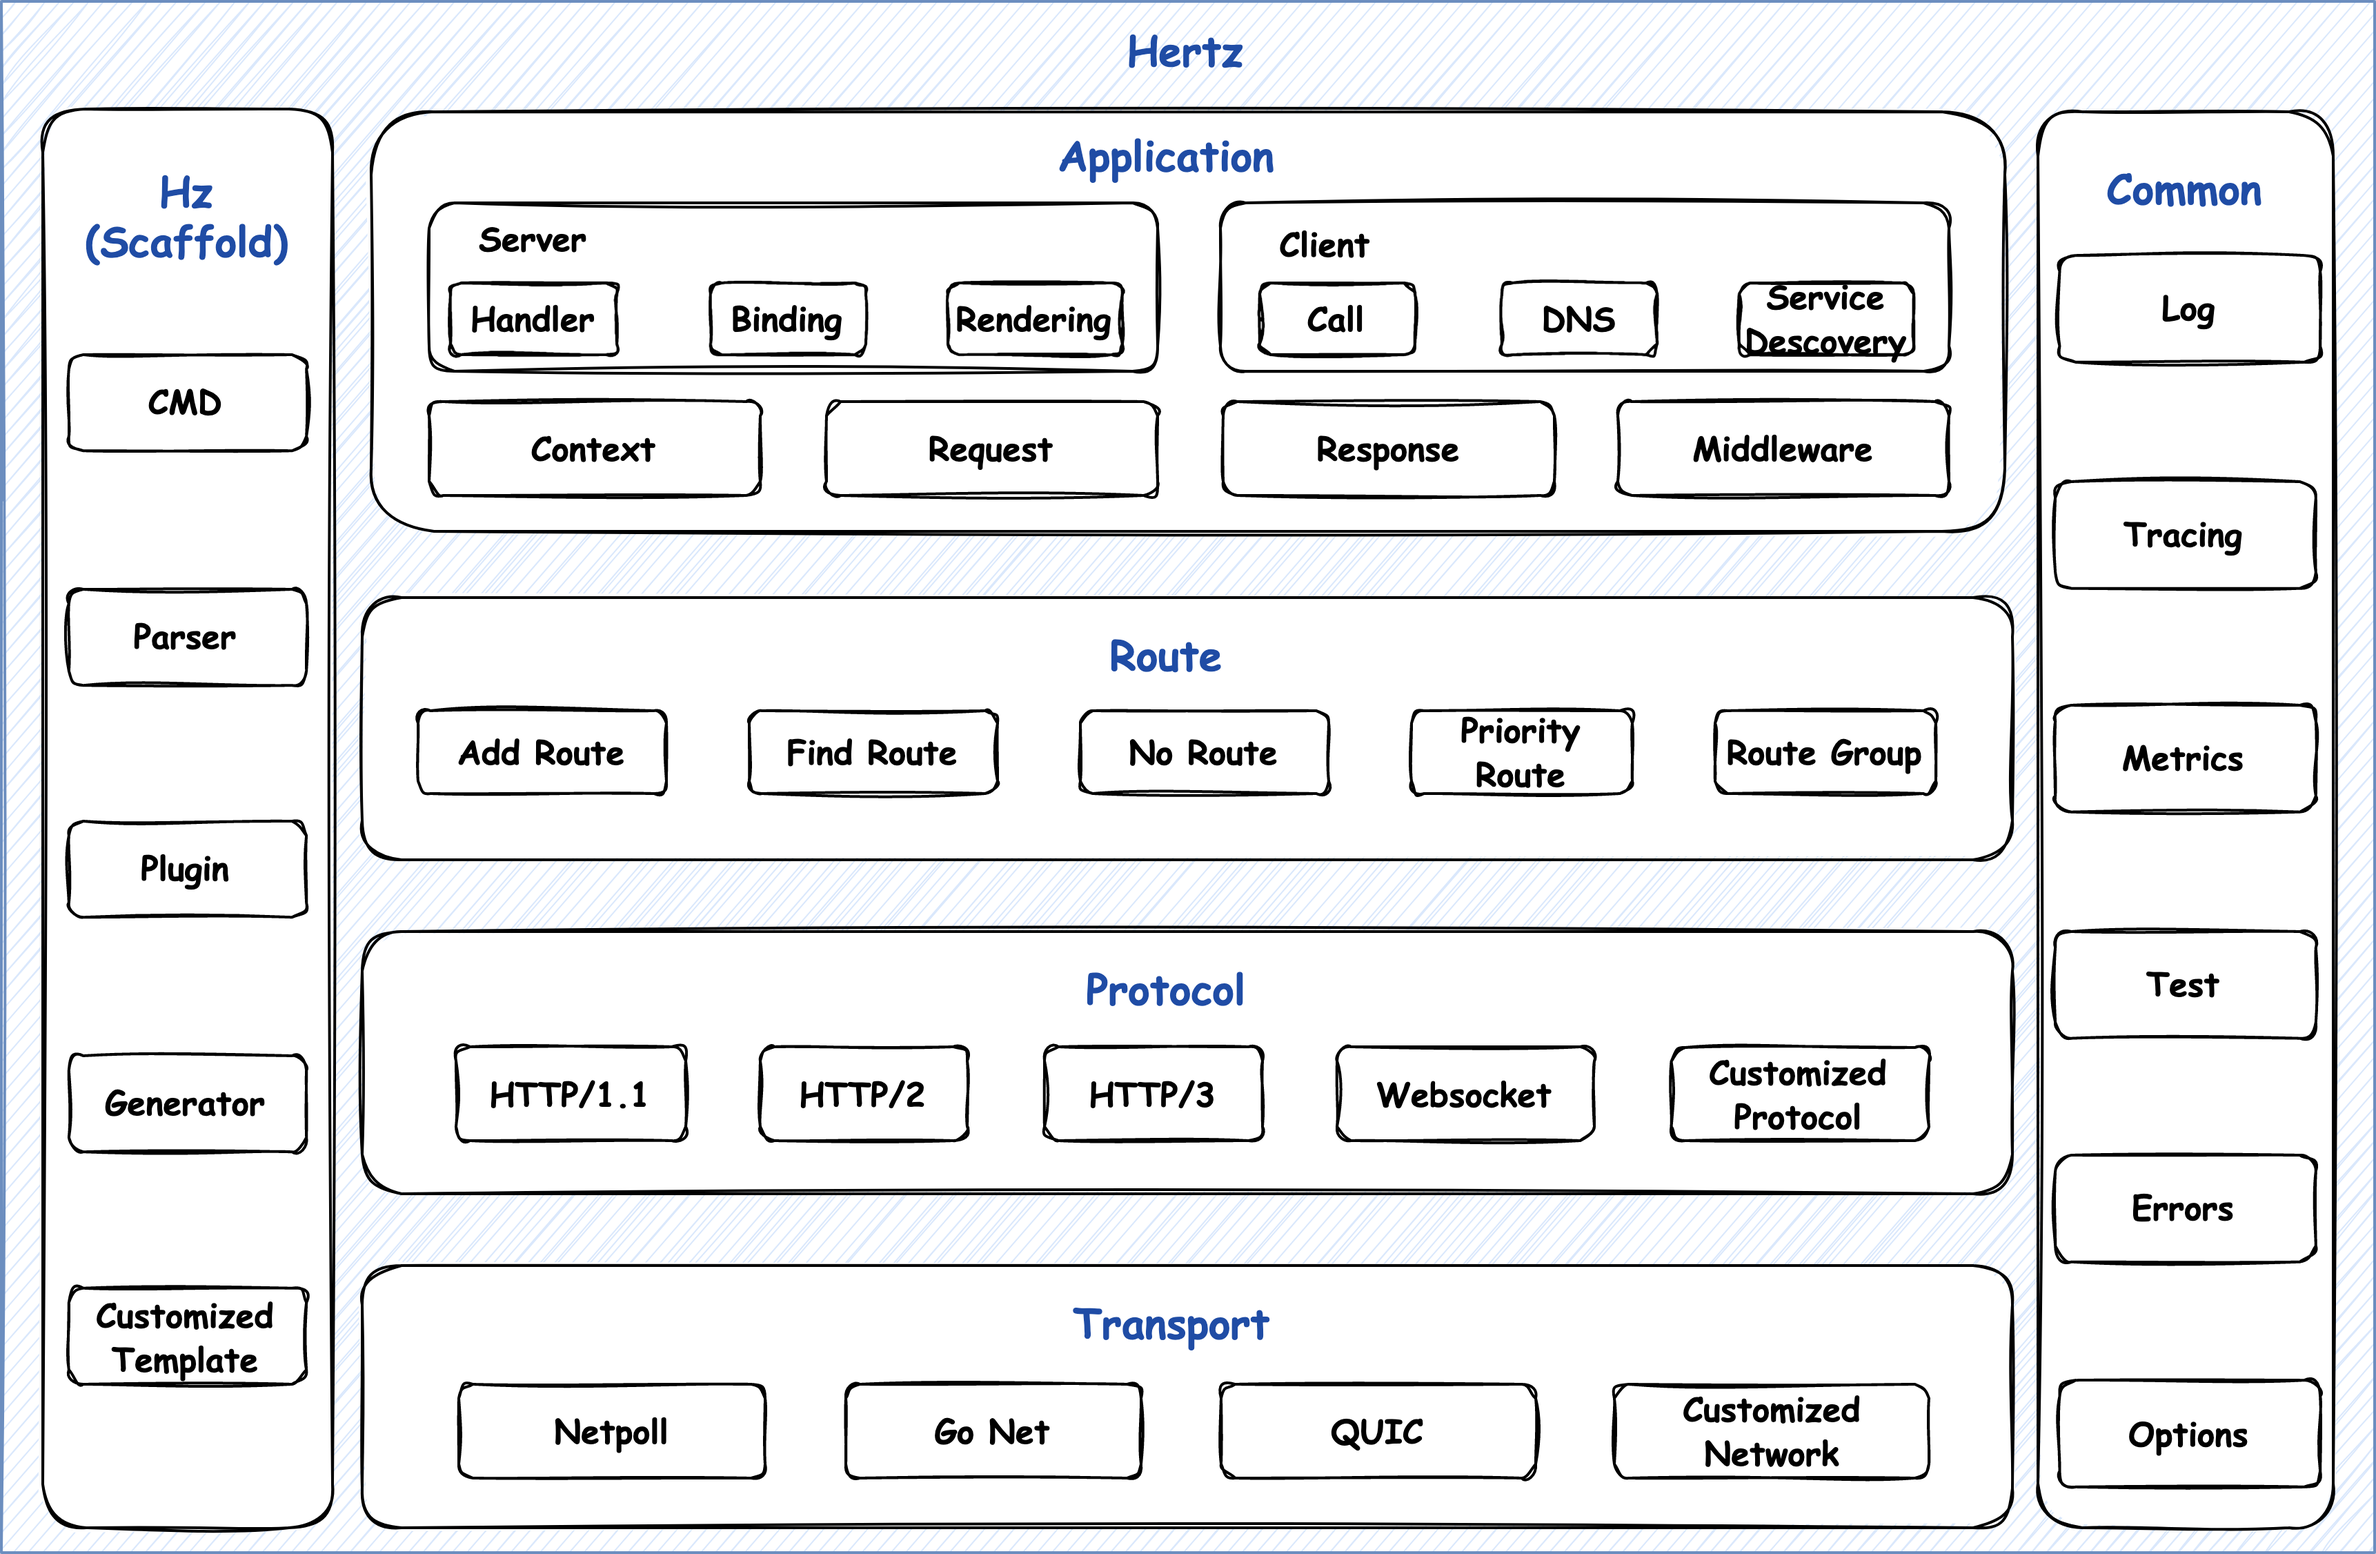
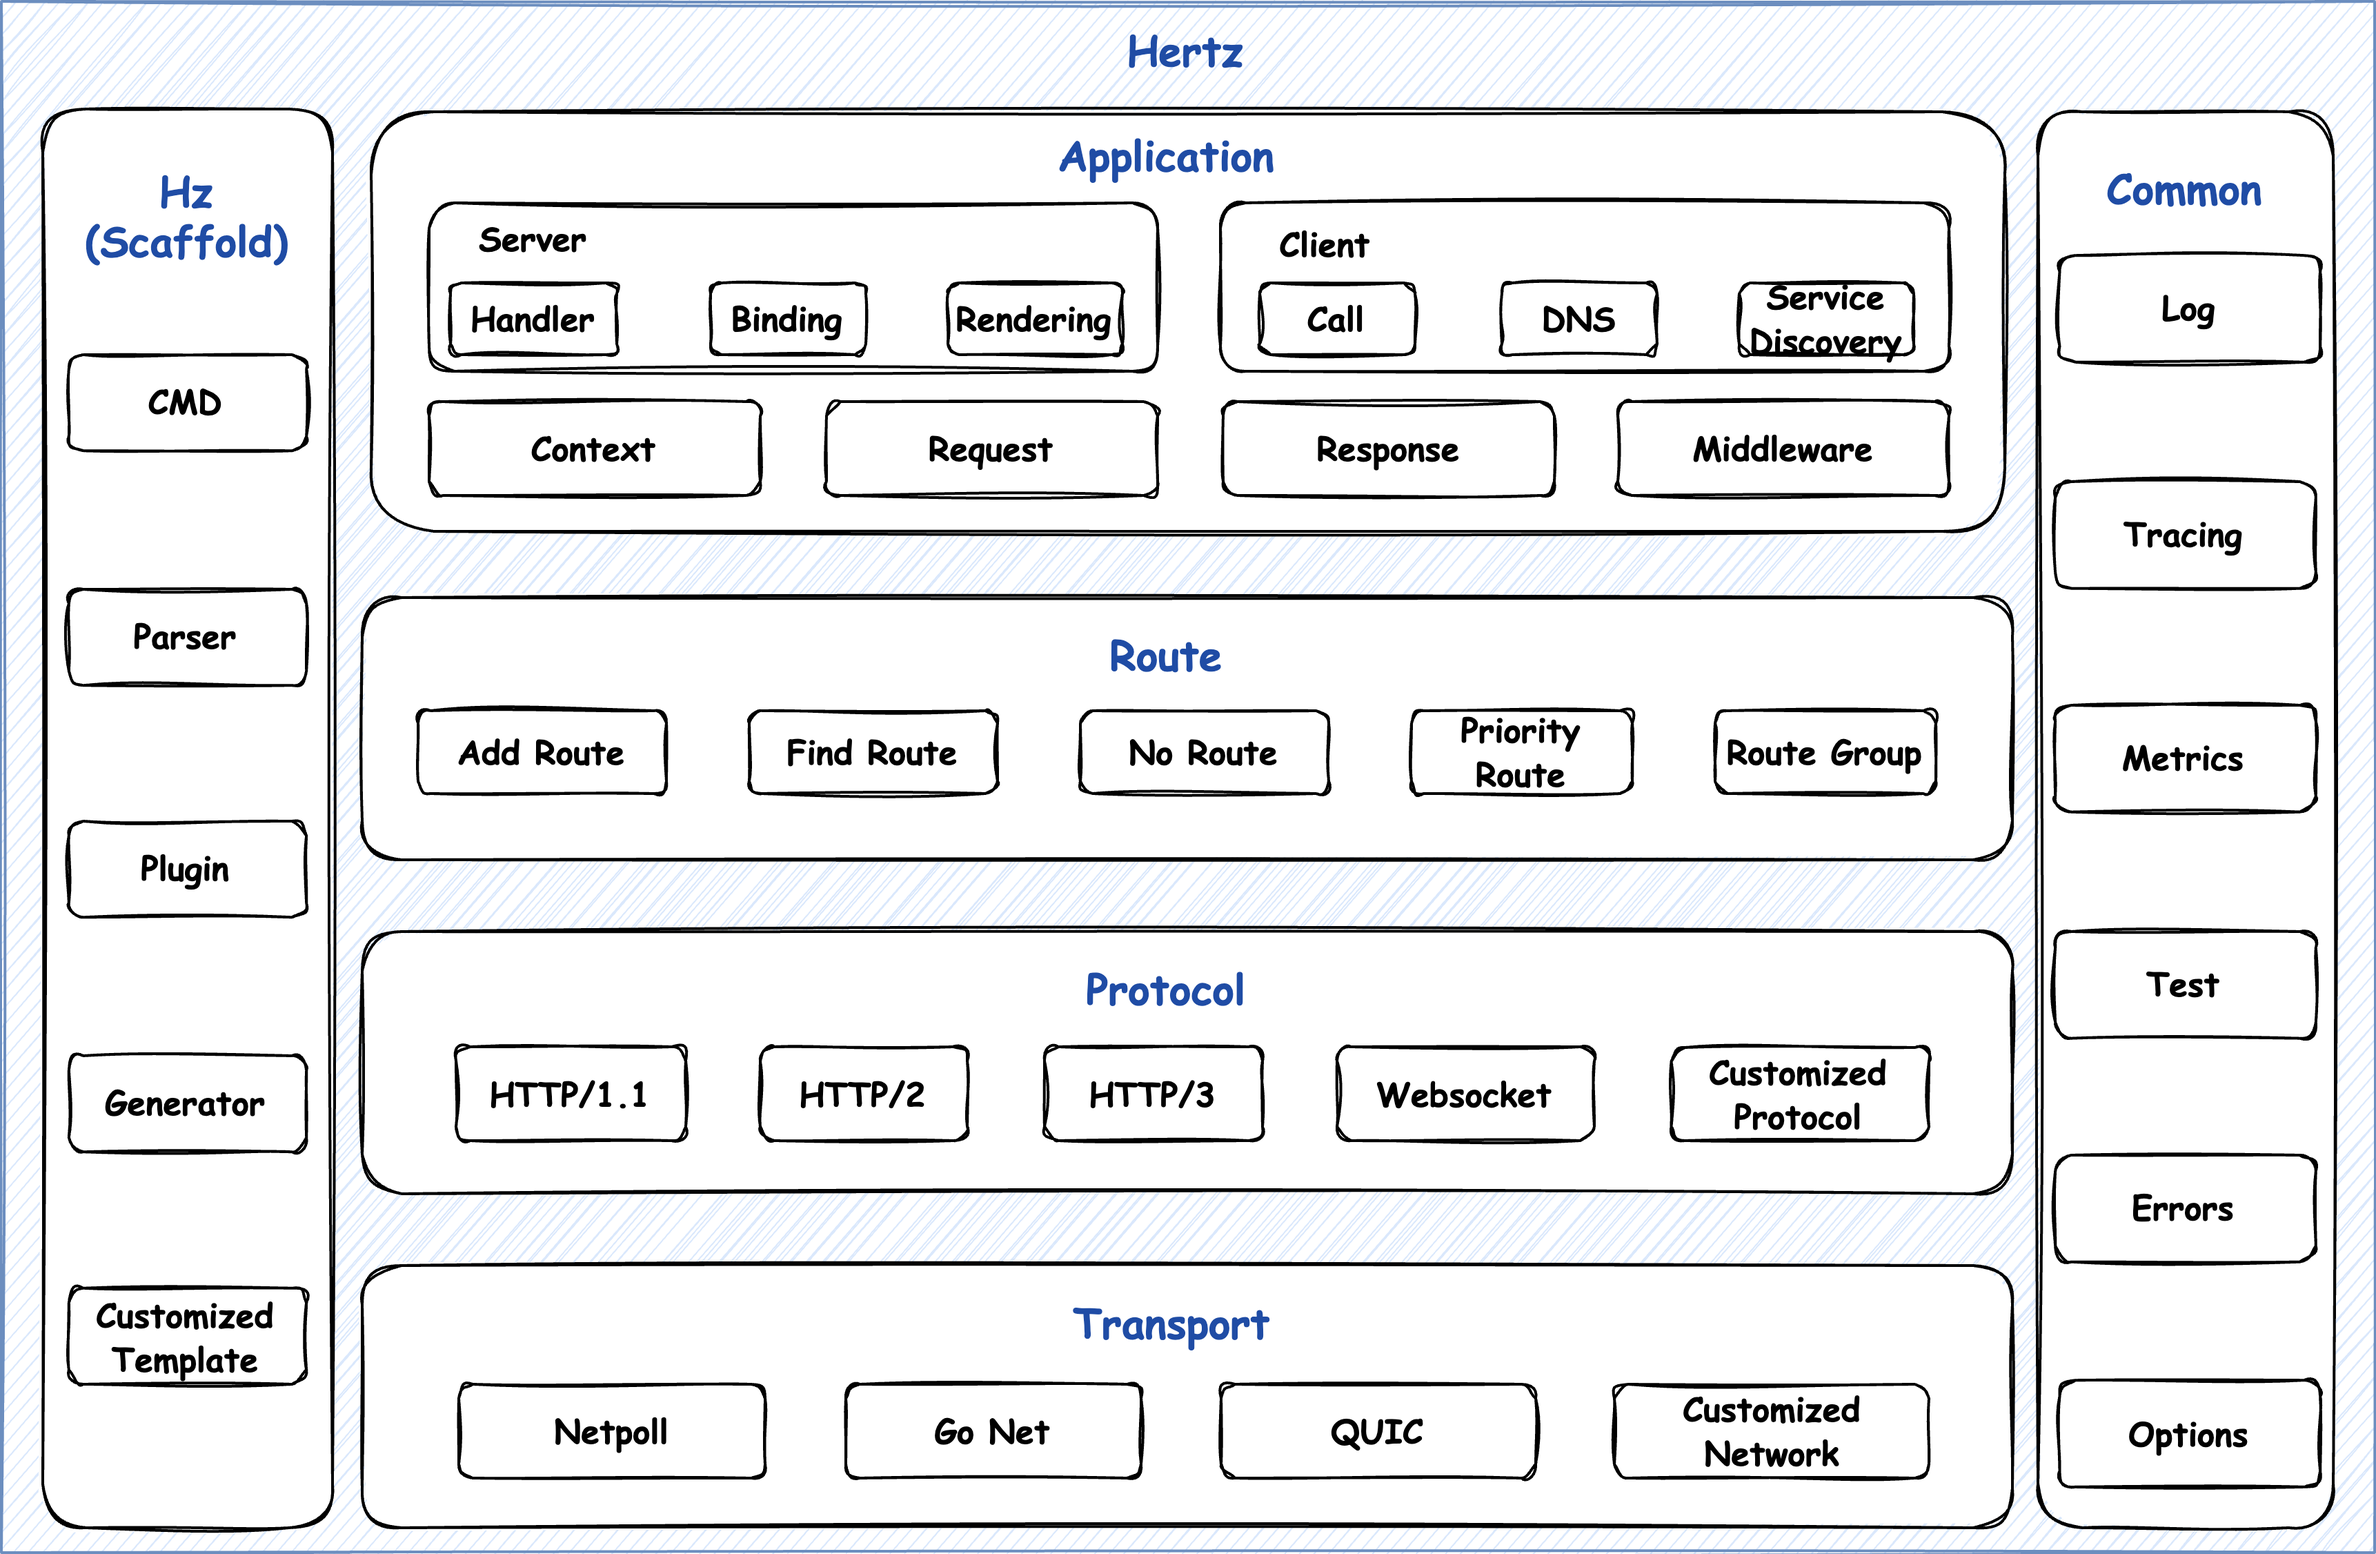
chore: fix hertz architecture typo (#1005)

diff --git a/content/zh/docs/hertz/overview/_index.md b/content/zh/docs/hertz/overview/_index.md
@@ -59,4 +59,7 @@ Hertz[həːts] 是一个 Golang 微服务 HTTP 框架，在设计之初参考了
 - [Example](https://github.com/cloudwego/hertz-examples): Hertz 使用例子
 
 ## 相关文章
-- [字节跳动在 Go 网络库上的实践](/zh/blog/2020/05/24/%E5%AD%97%E8%8A%82%E8%B7%B3%E5%8A%A8%E5%9C%A8-go-%E7%BD%91%E7%BB%9C%E5%BA%93%E4%B8%8A%E7%9A%84%E5%AE%9E%E8%B7%B5/)
+- [Hertz 支持 QUIC & HTTP/3](/zh/blog/2023/08/02/hertz-支持-quic-http/3/)
+- [HTTP 框架 Hertz 实践入门：性能测试指南](/zh/blog/2023/02/24/http-框架-hertz-实践入门性能测试指南/)
+- [助力字节降本增效，大规模企业级 HTTP 框架 Hertz 设计实践](/zh/blog/2022/09/27/助力字节降本增效大规模企业级-http-框架-hertz-设计实践/)
+- [字节跳动在 Go 网络库上的实践](/zh/blog/2020/05/24/字节跳动在-go-网络库上的实践/)

diff --git a/content/en/docs/hertz/overview/_index.md b/content/en/docs/hertz/overview/_index.md
@@ -66,4 +66,6 @@ We provide the [hertz-benchmark](https://github.com/cloudwego/hertz-benchmark) p
 - [Example](https://github.com/cloudwego/hertz-examples): A repository to host examples for Hertz.
 
 ## Blogs
+- [Getting Started with Hertz: Performance Testing Guide](/blog/2023/02/24/getting-started-with-hertz-performance-testing-guide/)
+- [Hertz, an Ultra Large Scale Enterprise-Level Microservice HTTP Framework, is Now Officially Open Source!](/blog/2022/06/21/hertz-an-ultra-large-scale-enterprise-level-microservice-http-framework-is-now-officially-open-source/)
 - [ByteDance Practice on Go Network Library](/blog/2020/05/24/bytedance-practices-on-go-network-library/)
